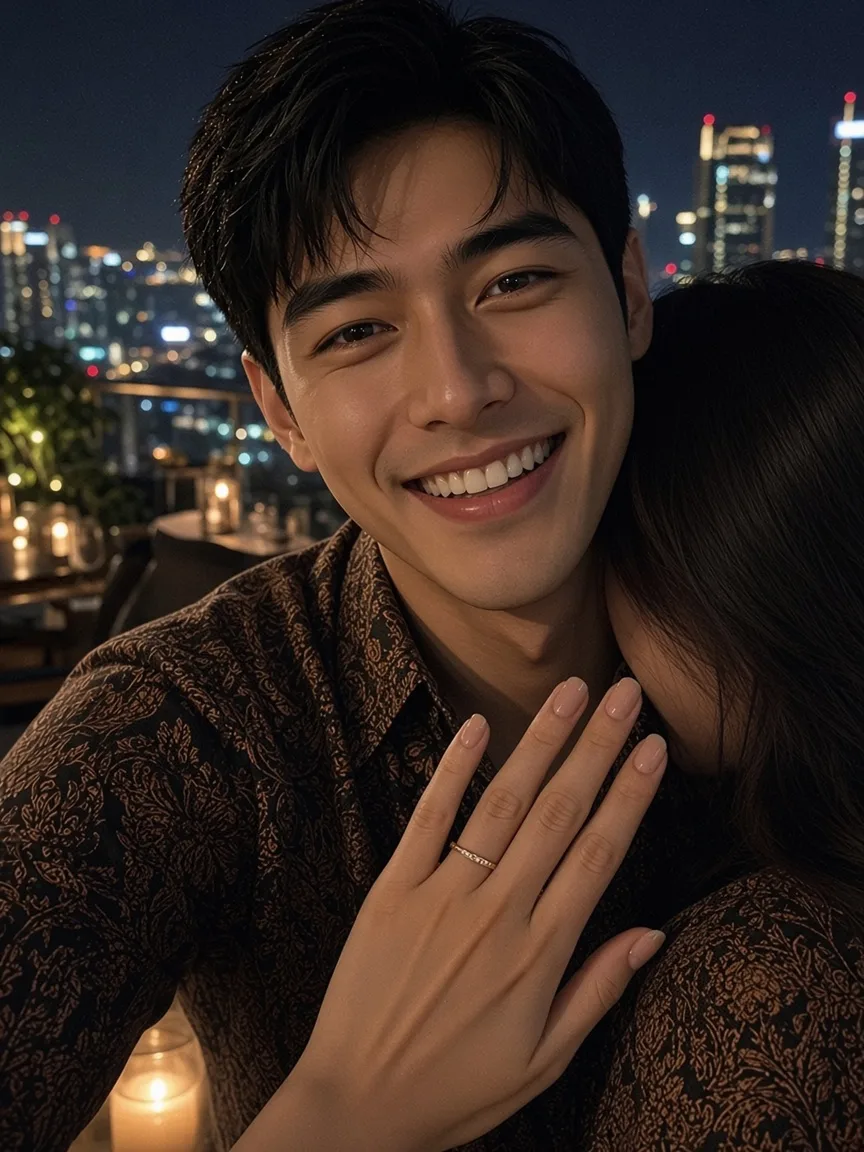
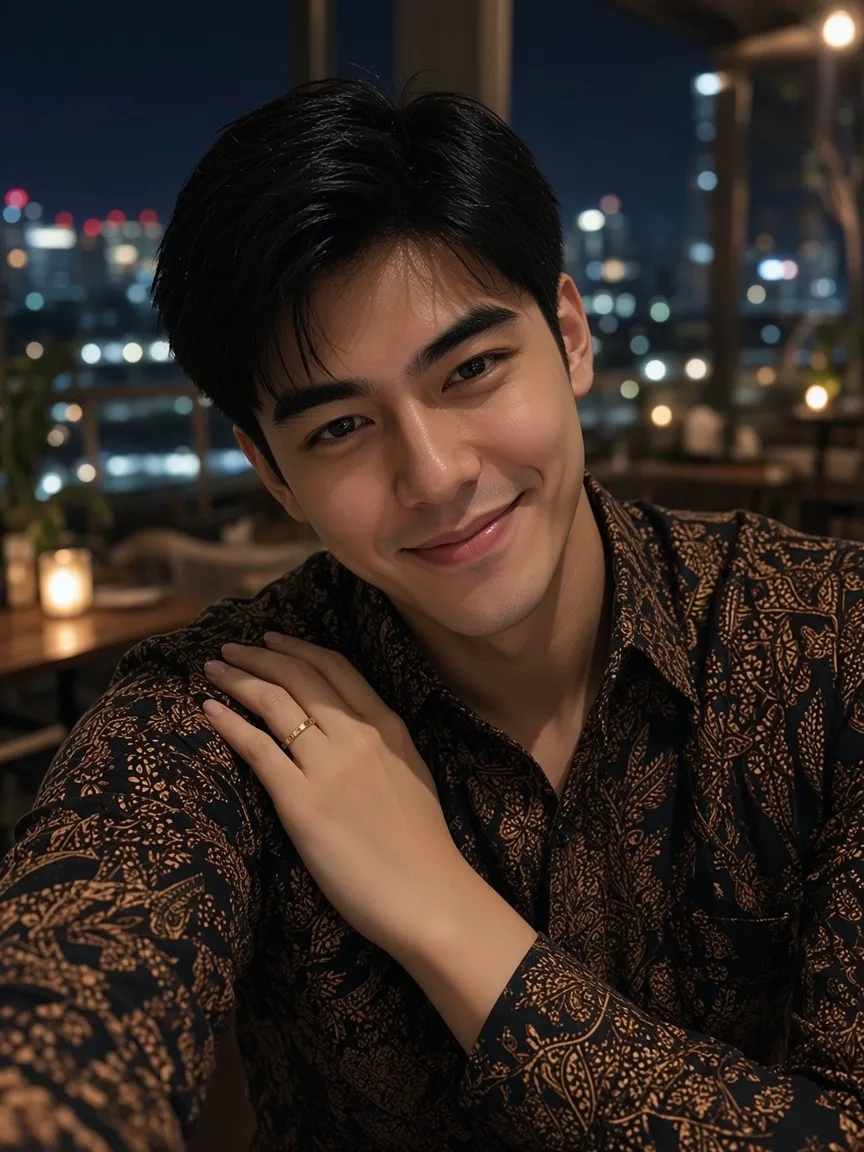
affair v6: passcode (tap→121019, 19…, ticket from wallet above keypad) + Galeri (12 Okt empty evening → Baru dihapus: rooftop wine, selfie w/ ring hand, reservation)

diff --git a/affair/phone.js b/affair/phone.js
@@ -2,7 +2,7 @@
 // then plays them: auto-advance at reading pace, taps only for meaningful actions.
 (function(){
 'use strict';
-const P=window.PHONE,{BEATS,APPS,LIST,UI,TH,SAY,TICKET,ANSWER,DECOR,CLOG_OLD}=P;
+const P=window.PHONE,{GDAYS,GALBUMS,GOTHER,GDEL,BEATS,APPS,LIST,UI,TH,SAY,TICKET,ANSWER,DECOR,CLOG_OLD}=P;
 const $=s=>document.querySelector(s);
 const qs=new URLSearchParams(location.search);
 const store=PhoneStore.create(localStorage,location.search,{onWiped:()=>location.reload()});
@@ -55,6 +55,7 @@ function build(){
     case 'call':base({k:'call',name:b.name,num:b.num,sub:b.sub,who:b.who});push(b,{txt:b.name});break;
     case 'clog':base({k:'clog',row:b.row,swipe:b.swipe,gone:b.gone,at:st.last&&st.last.callAt});push(b,{txt:b.gone?UI.deleted:(b.row&&b.row.t)});break;
     case 'contact':base({k:'contact',num:b.num,name:b.name,res:b.res});push(b,{txt:b.res?UI.cDup:''});break;
+    case 'gal2':base({k:'gal2',m:b.m,at:b.at,i:b.i});push(b,{txt:b.m==='photo'?'x'.repeat(50):''});break;
     case 'home':base({k:'hub'});push(b);break;
     case 'snap':st.ov=st.ov.filter(o=>o.k!=='pop'&&o.k!=='inner');st.ov.push({k:'snap',t:b.t});push(b,{txt:b.t});break;
     case 'myshot':{const src=F.find(f=>f.b.id===b.ref);if(src){base({k:'myshot',src:{...clone(src.v),hl:1},at:src.clock,shower:src.shower,left:src.left})}push(b,{txt:'x'.repeat(30)});break}
@@ -98,7 +99,7 @@ function build(){
 const scr=$('#screen'),phone=$('#phone');
 let F=build(),pos=Math.min(store.get('pos',0),F.length-1),shownAt=0,timer=null,paused=false,speed=store.get('speed',1),revealed=false;
 window.__LOG=[];
-const HIS=['lock','hub','list','thread','gallery','ride','bank','call','clog'];
+const HIS=['lock','hub','list','thread','gallery','gal2','ride','bank','call','clog'];
 const sbHTML=(f,light,clock)=>`<div class="sb${light?' light':''}"><b class="sbt">${esc(String(clock||f.clock).replace('.',':'))}</b><span class="isl">${HIS.includes(f.v.k)&&!f.noLabel?`<em class="hisl">📱 ${T(UI.hisPhone)}</em>`:''}</span><span class="sig">▂▄▆█</span><small>4G</small><span class="bat"><i style="width:${f.shower?54:62}%"></i></span></div>`;
 function chipHTML(f){
  if(!f.shower)return'';const sec=f.left*60;const stop=f.shower===2||(f.v.k==='dark'&&f.v.stop);
@@ -118,11 +119,11 @@ function viewHTML(f){
     if(c.say){const s=SAY[c.say];return `<div class="say${s.me?' me':''} cap${nw}">${av(c.say)}<div><small>${T(s.name)}</small><p>${T(c.t)}</p></div></div>`}
     if(c.bn)return `<div class="nb cap${nw}"><div class="nbh"><span>💬 ${T(c.from)}</span><span>${esc(c.time)}</span></div><p>${T(c.t)}</p></div>`;
     if(c.glimpse)return `<div class="glimpse cap${nw}"><small>${T(UI.hisPhone)}</small><span class="gb">${T(c.t)}</span></div>`;
-    if(c.ticket)return `<div class="cap${nw} tkwrap">${ticketHTML('washed')}<p>${T(c.t)}</p></div>`;
+    if(c.ticket)return `<div class="cap${nw} tkwrap">${ticketHTML('')}<p>${T(c.t)}</p></div>`;
     return `<p class="cap line${fresh?' l':''}${nw}"${st}>${T(c.t)}</p>`}).join('');
    return `<div class="app scene${v.tint==='fb'?' fbt':''}${all.length>=4?' many':''}">${v.img?`<div class="simg"><img src="assets/${v.img}" alt=""><span class="stag">${T(v.tag)}</span>${v.tint==='fb'?`<span class="fbchip">${T(UI.fbL)}</span>`:''}</div>`:''}<div class="scaps">${caps}</div></div>`}
   case 'lock':{
-   if(v.pin)return `<div class="app lock pinning"><img class="wallimg" src="assets/p-wall.webp" alt="">${sbHTML(f,1)}<div class="pinbox"><div class="pinl">🔒 ${T(UI.pinEnter)}</div><div class="dots6" id="dots">${'<i></i>'.repeat(6)}</div><div class="pinmsg" id="pinmsg"></div><div class="pad" id="pad">${[1,2,3,4,5,6,7,8,9,'',0,'⌫'].map(k=>k===''?'<span></span>':`<button class="key" data-k="${k}">${k}</button>`).join('')}</div><div class="pinhelp" id="pinhelp"></div></div></div>`;
+   if(v.pin)return `<div class="app lock pinning"><img class="wallimg" src="assets/p-wall.webp" alt="">${sbHTML(f,1)}<div class="pinbox">${f.b.ticketTop?`<div class="pintk"><p class="pincap">${T(f.b.cap)}</p><div class="tkmini" id="tkmini">${ticketHTML('mini')}<small id="tkhint"></small></div></div>`:''}<div class="pinl">🔒 ${T(UI.pinEnter)}</div><div class="dots6" id="dots">${'<i></i>'.repeat(6)}</div><div class="pinmsg" id="pinmsg"></div><div class="pad" id="pad">${[1,2,3,4,5,6,7,8,9,'',0,'⌫'].map(k=>k===''?'<span></span>':`<button class="key" data-k="${k}">${k}</button>`).join('')}</div><div class="pinhelp" id="pinhelp"></div></div></div>`;
    return `<div class="app lock"><img class="wallimg" src="assets/p-wall.webp" alt="">${sbHTML(f,1)}<div class="lk-t">${esc(f.clock.replace('.',':'))}</div><div class="lk-d">${T(UI.lockDate)}</div><div class="lk-n">${v.notifs.map((n,i)=>`<div class="ln${i===0&&f.b.k==='lock'?' new':''}"><span class="la">💬 ${esc(n.app)} · ${T(n.title)}</span><p>${T(n.t)}</p><span class="lt">${T(UI.now)}</span></div>`).join('')}</div></div>`}
   case 'list':{
    const rows=LIST.map(r=>{const un=r.un&&!(r.unWhen&&!cond(r.unWhen,{flags:f.flags,got:f.got}));
@@ -149,6 +150,23 @@ function viewHTML(f){
      return `<button class="hubic ${done?'done':can?'can':'cant'}" data-app="${a.id}"${can&&f.b.wait!==undefined?'':''}><span class="ai" style="background:${a.col}">${a.ic}</span><small>${T(a.name)}</small><em class="cost">${done?'✓':(can?'':'✕ ')+a.cost+' '+T(UI.min)}</em></button>`}).join('');
    const dc=DECOR.map(d=>`<span class="hubic decor"><span class="ai">${d.ic}</span><small>${T(d.name)}</small></span>`).join('');
    return `<div class="app hub"><img class="wallimg" src="assets/p-wall.webp" alt="">${sbHTML(f,1)}<div class="hubgrid">${ic}${dc}</div></div>`}
+  case 'gal2':{
+   const tile=(p,extra)=>`<span class="gtile"${extra||''}><img src="assets/${p[0]}.webp" alt="" style="object-position:${p[1]};transform:scale(${p[2]})"><i>${esc(p[3])}</i></span>`;
+   const shotUI=(g,mini)=>{const a=L(g.shot).split(' · ');return `<div class="rsv${mini?' mini':''}"><small>${T(UI.gRsv)}</small><b>${esc(a[0])}</b><p>${esc(a[1])}</p><p>${esc(a[2])}</p><em>✓ ${esc(a[3])}</em></div>`};
+   const tabs=`<div class="gtabs"><span class="${v.m==='grid'?'on':''}">${T(UI.gRecent)}</span><span class="${v.m==='grid'?'':'on'}" data-tgt="album">${T(UI.gAlbums)}</span></div>`;
+   if(v.m==='grid'){
+    const secs=GDAYS.map(d=>`<div class="gsec${v.at===d.id?' hl':''}" data-day="${d.id}"><div class="gday">${T(d.d)}</div><div class="ggrid">${d.ph.map(p=>tile(p)).join('')}</div></div>`).join('');
+    const scrub=`<div class="gscrub">${GDAYS.map(d=>`<span data-tgt="${d.id}">${esc(L(d.d).replace(/^.*?(\d+ Okt|\d+月\d+日).*$/,'$1'))}</span>`).join('')}</div>`;
+    return `<div class="app gal2">${sbHTML(f,0)}<div class="gh2"><b>${T(UI.gRecent)}</b></div><div class="gscroll" id="gscroll">${secs}<div class="lpad"></div></div>${scrub}${tabs}</div>`}
+   if(v.m==='albums'){
+    const al=GALBUMS.map(a=>`<div class="galb"><img src="assets/${a[1]}.webp" alt=""><b>${T(a[0])}</b><small>${esc(a[2])}</small></div>`).join('');
+    const ot=GOTHER.map(o=>`<div class="gorow"><span>${o[0]}</span><b>${T(o[1])}</b><small>${esc(o[2])} ›</small></div>`).join('')+`<div class="gorow" data-tgt="del"><span>🗑</span><b>${T(UI.gDel)}</b><small>3 ›</small></div>`;
+    return `<div class="app gal2">${sbHTML(f,0)}<div class="gh2"><b>${T(UI.gAlbums)}</b></div><div class="gscroll" id="gscroll"><div class="galbs">${al}</div><div class="gday">${T(UI.gOther)}</div>${ot}<div class="lpad"></div></div>${tabs}</div>`}
+   if(v.m==='del'){
+    const ts=GDEL.map((g,i)=>`<span class="gtile del" data-tgt="p${i}">${g.img?`<img src="assets/${g.img}" alt="">`:shotUI(g,1)}<i>${T(UI.gDays)}</i></span>`).join('');
+    return `<div class="app gal2">${sbHTML(f,0)}<div class="gh2"><span class="bk">‹</span><b>${T(UI.gDel)}</b></div><div class="gnote">${T(UI.gDaysL)}</div><div class="ggrid big">${ts}</div>${tabs}</div>`}
+   const g=GDEL[v.i];
+   return `<div class="app gal2">${sbHTML(f,0)}<div class="gh2"><span class="bk">‹</span><b>${T(UI.gDel)}</b><small>${v.i+1}/3</small></div><div class="gph" data-tgt="ph">${g.img?`<img src="assets/${g.img}" alt="">`:shotUI(g)}</div><div class="gcap">ⓘ ${T(g.cap)}</div><div class="gdl">🗑 ${T(UI.gDaysL)}</div><div class="gbtns"><span>${T(UI.gRestore)}</span><span class="r">${T(UI.gDelete)}</span></div></div>`}
   case 'myshot':{
    const inner=viewHTML({v:v.src,clock:v.at,left:v.left,shower:0,b:{k:'x'},ov:[],got:[],flags:{},noLabel:1});
    return `<div class="app mygal">${sbHTML(f)}<div class="gh"><span class="bk">‹</span><b>${T(UI.myGal)}</b></div><div class="shotph"><div class="shotin">${inner}</div><i class="glare"></i></div><div class="gcap">📷 ${esc(String(v.at).replace('.',':'))}</div></div>`}
@@ -204,7 +222,9 @@ function wire(f,anim){
  if(b.k==='act'&&b.mode==='pin'&&!f.done)armPin(b);
  if(f.drainFrom!=null&&anim)drain(f);
  if(v.k==='epend'){$('#again').onclick=e=>{e.stopPropagation();resetAll()}}
- const g=scr.querySelector('.gfocus');if(g)g.onclick=e=>{e.stopPropagation();const z=$('#zoom');z.innerHTML=`<img src="${g.querySelector('img').src}" alt="">`;z.hidden=false;z.onclick=()=>{z.hidden=true}};
+ if(v.k==='gal2'){const gs=$('#gscroll');if(gs){let to=0;if(v.at){const d=gs.querySelector(`[data-day=${v.at}]`);to=d.offsetTop-gs.offsetTop-8}else if(v.m==='albums')to=gs.scrollHeight;
+   if(anim&&f.b.k==='gal2'&&to)smoothScroll(gs,Math.min(to,gs.scrollHeight-gs.clientHeight),1100);else gs.scrollTop=to}}
+ if(v.k!=='list'&&b.k==='act'&&b.mode==='target'&&!f.done){const el=scr.querySelector(`[data-tgt="${b.tgt}"]`);if(el){el.classList.add('tgt');el.onclick=e=>{e.stopPropagation();resolve(b.key,true)}}}
 }
 function smoothScroll(el,to,ms){const from=el.scrollTop,t0=performance.now();(function st(){const k=Math.min(1,(performance.now()-t0)/ms);el.scrollTop=from+(to-from)*(1-Math.pow(1-k,3));if(k<1)requestAnimationFrame(st)})()}
 function drain(f){const el=$('#cdt'),sb=scr.querySelector('.sbt');const s0=f.drainFrom*60,ms=3600/speed,t0=performance.now();
@@ -213,19 +233,17 @@ function drain(f){const el=$('#cdt'),sb=scr.querySelector('.sbt');const s0=f.dra
 function armPin(b){
  let code='';const dots=$('#dots'),msg=$('#pinmsg'),help=$('#pinhelp');let wrong=0;
  const paint=()=>dots.querySelectorAll('i').forEach((d,i)=>d.classList.toggle('on',i<code.length));
- const showChip=()=>{if(b.chip&&!help.innerHTML)help.innerHTML=`<button class="pchip" id="pchip">${T(b.chip.label)}</button>`;const c=$('#pchip');if(c)c.onclick=e=>{e.stopPropagation();autofill(b.chip.code)}};
- const showTicket=()=>{if(b.ticket&&!help.innerHTML){help.innerHTML=`<div class="tkmini" id="tkmini">${ticketHTML('washed mini')}<small>${T(UI.ticketTap)}</small></div>`;$('#tkmini').onclick=e=>{e.stopPropagation();help.innerHTML=`<div class="tkbig">${ticketHTML('washed big')}</div>`}}};
- const autofill=c=>{if(busy)return;let i=0;code='';paint();const iv=setInterval(()=>{code+=c[i++];paint();if(i>=c.length){clearInterval(iv);setTimeout(check,250)}},170)};
+ const showTicket=()=>{const tk=$('#tkmini');if(!b.ticketTop||!tk||tk.classList.contains('tgt'))return;$('#tkhint').textContent=L(UI.ticketTap);tk.classList.add('tgt');tk.onclick=e=>{e.stopPropagation();if(!busy&&!code)autofill(ANSWER)}};
+ const autofill=c=>{if(busy)return;busy=true;let i=0;code='';paint();const iv=setInterval(()=>{code+=c[i++];paint();if(i>=c.length){clearInterval(iv);setTimeout(check,250)}},170)};
  let busy=false;
  function check(){busy=true;
   const ok=b.final?code===ANSWER:false;
   if(ok){dots.classList.add('ok');setTimeout(()=>{busy=false;resolve(b.key,true)},420);return}
-  wrong++;dots.classList.remove('bad');void dots.offsetWidth;dots.classList.add('bad');msg.textContent=L(UI.pinWrong);
-  setTimeout(()=>{code='';paint();busy=false;dots.classList.remove('bad');if(!b.final)resolve(b.key,true);else if(wrong>=1)showTicket()},700)}
+  wrong++;phone.classList.remove('shake');void phone.offsetWidth;phone.classList.add('shake');dots.classList.remove('bad');void dots.offsetWidth;dots.classList.add('bad');msg.textContent=L(UI.pinWrong);
+  setTimeout(()=>{code='';paint();busy=false;dots.classList.remove('bad');if(!b.final)resolve(b.key,true);else if(wrong>=1)showTicket()},b.final?700:1100)}
  $('#pad').onclick=e=>{const k=e.target.closest('.key');if(!k||busy)return;e.stopPropagation();const d=k.dataset.k;
-  if(d==='⌫'){code=code.slice(0,-1);paint();return}if(code.length<6){code+=d;paint();msg.textContent='';if(code.length===6)setTimeout(check,200)}};
+  if(b.fill){if(!code)autofill(b.fill);return}if(d==='⌫'){code=code.slice(0,-1);paint();return}if(code.length<6){code+=d;paint();msg.textContent='';if(code.length===6)setTimeout(check,200)}};
  const tid=F[pos];
- if(b.chipAfter)setTimeout(()=>{if(F[pos]===tid)showChip()},b.chipAfter);
  if(b.ticketAfter)setTimeout(()=>{if(F[pos]===tid)showTicket()},b.ticketAfter/speed);
 }
 // ---------------- flow ----------------
@@ -251,7 +269,7 @@ function resolve(key,val){const f=F[pos];if(!f||f.wait!==key||f.done)return;
  if(performance.now()-shownAt<MINVIS)return;
  decide(key,val);F=build();pos=Math.min(pos+1,F.length-1);render(true)}
 // how long the entrance animations of a frame run: a tap before that only reveals, never advances
-function animEnd(f){const k=f.b.k;if(k==='scene')return 700*(f.b.lines.length-1)+700;if(k==='ride')return 1250;if(k==='bank')return 1400;if(f.v.k==='dark'&&f.v.title)return 2100;if(k==='dark')return 1400;if(k==='list'&&f.v.hold)return 1500;if(k==='list'&&f.v.title)return 1000;if(k==='gallery'&&f.v.zoomed)return 950;if(k==='snap')return 900;return 450}
+function animEnd(f){const k=f.b.k;if(k==='scene')return 700*(f.b.lines.length-1)+700;if(k==='ride')return 1250;if(k==='bank')return 1400;if(f.v.k==='dark'&&f.v.title)return 2100;if(k==='dark')return 1400;if(k==='list'&&f.v.hold)return 1500;if(k==='list'&&f.v.title)return 1000;if(k==='gallery'&&f.v.zoomed)return 950;if(k==='snap')return 900;if(k==='gal2'&&f.v.at)return 1200;if(k==='gal2'&&f.v.m==='albums')return 1200;return 450}
 let revealAt=0;
 scr.addEventListener('click',()=>{
  const f=F[pos];if(f.wait&&!f.done)return;

diff --git a/affair/script.js b/affair/script.js
@@ -32,6 +32,21 @@ const LIST=[
 ];
 const VN_TR='“Kamis ya, lantai 17, jangan telat. Istrimu nggak curiga kan? Dia kan cuma ngurus rumah… oke sip.”|“星期四哦，十七楼，别迟到。你老婆没起疑吧？她不就是管管家嘛……oke sip。”';
 const ROUTE='Konveksi Cempaka → Griya Sentosa Tower B|Cempaka服装厂 → Griya Sentosa B座';
+// Galeri: normal photos (img, crop, time) per day; 12 Okt has only one morning invoice
+const GDAYS=[
+ {id:'d21',d:'Hari ini · Rabu, 21 Okt|今天 · 10月21日 周三',ph:[['p-g-work','50% 50%',1,'10.12'],['p-g-invoice','50% 40%',1.3,'09.47']]},
+ {id:'d20',d:'Selasa, 20 Okt|10月20日 周二',ph:[['p-g-nayla','50% 40%',1,'18.55'],['p-g-work','10% 30%',1.6,'14.20'],['p-g-work','90% 80%',1.7,'14.19']]},
+ {id:'d18',d:'Minggu, 18 Okt|10月18日 周日',ph:[['p-g-nayla','40% 60%',1.5,'16.02'],['p-g-nayla','60% 20%',1.2,'16.01']]},
+ {id:'d15',d:'Kamis, 15 Okt|10月15日 周四',ph:[['p-g-invoice','30% 60%',1.6,'11.30'],['p-g-work','20% 60%',1.4,'10.05'],['p-g-invoice','70% 20%',1.5,'09.58']]},
+ {id:'d13',d:'Selasa, 13 Okt|10月13日 周二',ph:[['p-g-work','80% 30%',1.5,'15.40'],['p-g-nayla','50% 70%',1.6,'07.10']]},
+ {id:'d12',d:'Senin, 12 Okt|10月12日 周一',ph:[['p-g-invoice','50% 50%',1.1,'08.14']]},
+ {id:'d11',d:'Minggu, 11 Okt|10月11日 周日',ph:[['p-g-nayla','30% 30%',1.3,'17.22'],['p-g-work','60% 40%',1.2,'13.03'],['p-g-nayla','70% 80%',1.8,'08.45']]}];
+const GALBUMS=[['Terbaru|最近项目','p-g-work','1.284'],['Favorit|个人收藏','p-g-nayla','36'],['Nayla|Nayla','p-g-nayla','412'],['Kain · Kerja|布料 · 工作','p-g-invoice','318']];
+const GOTHER=[['🎞','Video|视频','27'],['📱','Tangkapan layar|截屏','154'],['🔒','Tersembunyi|已隐藏','0']];
+const GDEL=[
+ {img:'p-rooftop.webp',cap:'12 Okt 2026 · 21.03 · Rumah Langit, Griya Sentosa|2026年10月12日 · 21:03 · Rumah Langit，Griya Sentosa'},
+ {img:'p-album.webp',cap:'12 Okt 2026 · 21.26 · Rumah Langit, Griya Sentosa|2026年10月12日 · 21:26 · Rumah Langit，Griya Sentosa'},
+ {shot:'Rumah Langit · 2 orang · 12 Okt 20.30 · Terkonfirmasi|Rumah Langit · 2位 · 10月12日 20:30 · 已确认',cap:'12 Okt 2026 · 17.52 · Tangkapan layar|2026年10月12日 · 17:52 · 截屏'}];
 const GCAP='12 Okt 2026 · 21.03 · Rumah Langit, Griya Sentosa|2026年10月12日 · 21:03 · Rumah Langit，Griya Sentosa';
 // the four apps on his home screen: each costs 4 minutes; only three fit
 const APPS=[
@@ -47,13 +62,23 @@ const APPS=[
    {k:'act',key:'trans',mode:'tap',in:'chat',btn:'📝 Ubah suara ke teks|📝 语音转文字'},
    {k:'replay',th:'budi',tr:VN_TR}]},
  {id:'gal',name:'Galeri|相册',ic:'🖼',col:'#d98a1c',cost:4,re:[
-   {k:'gallery',id:'k1',t:'Album tersembunyi “K” · 1 foto|隐藏相册“K” · 1张',focus:'p-album.webp',cap:GCAP},
-   {k:'scene',tint:'fb',tag:'Senin, 12 Okt · 18.40|10月12日 周一 · 18:40',img:'p-dressed.webp',lines:['Ulang tahun pernikahan ketujuh.|结婚七周年。','Aku sudah dandan.|我已经化好了妆。']},
+   {k:'gal2',m:'grid'},
+   {k:'act',key:'g12',mode:'target',tgt:'d12'},
+   {k:'gal2',m:'grid',at:'d12'},
+   {k:'inner',t:'Malam itu katanya lembur. Nggak ada satu pun foto?|那天他说在加班，连一张发货单都没拍？'},
+   {k:'act',key:'galb',mode:'target',tgt:'album'},
+   {k:'gal2',m:'albums'},
+   {k:'act',key:'gdel',mode:'target',tgt:'del'},
+   {k:'gal2',m:'del'},
+   {k:'act',key:'gp1',mode:'target',tgt:'p0'},
+   {k:'gal2',m:'photo',i:0},
+   {k:'act',key:'gp2',mode:'target',tgt:'ph'},
+   {k:'gal2',m:'photo',i:1},
+   {k:'act',key:'gp3',mode:'target',tgt:'ph'},
+   {k:'gal2',m:'photo',i:2},
+   {k:'scene',tint:'fb',tag:'Senin, 12 Okt · 18.40|10月12日 周一 · 18:40',img:'p-dressed.webp',lines:['Aku sudah dandan.|我已经化好了妆。']},
    {k:'scap',bn:1,from:'Mas Dimas ❤|Mas Dimas ❤',time:'18.40',t:'Sayang, maaf, malam ini lembur. Anniversary-nya kita rayain weekend ya|宝贝，对不起，今晚加班。纪念日我们周末再过哈'},
-   {k:'gallery',t:'Album tersembunyi “K” · 1 foto|隐藏相册“K” · 1张',focus:'p-album.webp',cap:GCAP},
-   {k:'act',key:'zoom',mode:'tap',in:'gallery',btn:'Perbesar tangannya|放大那只手'},
-   {k:'gallery',id:'k2',zoomed:1,t:'Album tersembunyi “K” · diperbesar|隐藏相册“K” · 放大',focus:'p-album-hand.webp',cap:'12 Okt 2026 · 21.03|2026年10月12日 · 21:03'},
-   {k:'inner',t:'Cincinnya… mirip punyaku.|这戒指……跟我的好像。'}]},
+   {k:'inner',t:'Hari itu ulang tahun pernikahan kami.|那天，是我们的结婚纪念日。'}]},
  {id:'ride',name:'Jalanku|Jalanku',ic:'🛵',col:'#0b8f62',cost:4,re:[
    {k:'ride',t:'Riwayat perjalanan|行程记录',img:'p-apt.webp',cap:'Griya Sentosa Tower B|Griya Sentosa B座',rows:[
      ['Kamis, 15 Okt · 19.30|10月15日 周四 · 19:30',ROUTE,'Rp38.000'],
@@ -83,12 +108,13 @@ const BEATS=[
  {k:'inner',t:'…Supplier nanya aku udah tidur?|……供应商，问我睡了没？'},
  {k:'act',key:'grab',mode:'tap',in:'lock',notifs:[B2,B1],btn:'Ambil HP-nya|拿起他的手机'},
  // ---------- passcode ----------
- {k:'act',key:'pin1',mode:'pin',in:'lock',fail:1,chip:{label:'12 10 19 · tanggal nikah kami|12 10 19 · 我们的结婚纪念日',code:'121019'},chipAfter:1200},
- {k:'inner',fx:'shake',t:'Dulu ini kodenya.|以前就是这个。'},
+ {k:'act',key:'pin1',mode:'pin',in:'lock',fail:1,fill:'121019'},
+ {k:'inner',t:'Dulu ini kodenya.|以前就是这个。'},
  {k:'scene',tint:'fb',tag:'21.20 · Meja makan · tadi|21:20 · 餐桌 · 今晚早些时候',img:'p-dinner.webp',lines:['Dia membuka HP-nya, layarnya dimiringkan dariku.|他解锁手机时，把屏幕斜着避开我。','Yang sempat kulihat: 1, lalu 9.|我只看见：1，然后是9。']},
- {k:'scene',tint:'fb',tag:'Juni 2025 · Ruang cuci|2025年6月 · 洗衣间',img:'p-laundry.webp',lines:['Kantong kemejanya.|他衬衫的口袋里。','Kertas lecek, ikut tercuci.|一团皱纸，跟着洗过了。']},
- {k:'scap',ticket:1,t:'Kamis. 19.06.25.|星期四。19.06.25。'},
- {k:'act',key:'pin2',mode:'pin',in:'lock',final:1,ticket:1,ticketAfter:9000},
+ {k:'inner',t:'19…|19……'},
+ {k:'scene',tint:'fb',tag:'Juni 2025 · Ruang cuci|2025年6月 · 洗衣间',img:'p-laundry.webp',lines:['Malam itu katanya dia lembur.|那天晚上，他说在加班。']},
+ {k:'scap',ticket:1,t:'Aku nggak nanya. Tiketnya kuselipkan di dompetku.|我没问。把票夹进了自己的钱包。'},
+ {k:'act',key:'pin2',mode:'pin',in:'lock',final:1,ticketTop:1,cap:'Kuambil dari dompetku.|我从钱包里抽出那张票。',ticketAfter:9000},
  // ---------- unlocked: his home screen ----------
  {k:'home',shower:1},
  {k:'inner',t:'Dia mandi lima belas menit. Satu-satu, paling sempat tiga.|他洗澡十五分钟。一个一个翻，最多来得及看三个。'},
@@ -141,10 +167,10 @@ const BEATS=[
  {k:'dark',cut:1,t:'',sub:''},
  {k:'epend',ep:1,tease:'Episode 2: Kamis malam, lantai 17.|第2集：星期四晚上，十七楼。'}
 ];
-const IMAGES=['p-bed.webp','p-dinner.webp','p-laundry.webp','p-album.webp','p-album-hand.webp','p-dressed.webp','p-apt.webp','p-door.webp','p-ask.webp','p-bed2.webp','p-wall.webp','p-hisphone.webp','av-L.webp','av-D.webp'];
+const IMAGES=['p-bed.webp','p-dinner.webp','p-laundry.webp','p-album.webp','p-rooftop.webp','p-g-work.webp','p-g-invoice.webp','p-g-nayla.webp','p-dressed.webp','p-apt.webp','p-door.webp','p-ask.webp','p-bed2.webp','p-wall.webp','p-hisphone.webp','av-L.webp','av-D.webp'];
 const UI={
  paused:'Dijeda|已暂停',menu:'Menu|菜单',reset:'Mulai ulang dari awal|从头开始',resetQ:'Mulai ulang? Progres & pilihan dihapus.|重新开始？进度和选择都会被删除。',yes:'Ya, mulai ulang|确定重置',no:'Batal|取消',
- innerL:'suara hatiku|我的心声',tr:'Transkrip|转写',vn:'Pesan suara|语音消息',zoomHint:'ketuk untuk perbesar|点开看大图',gallery:'Galeri|相册',me:'Aku|我',
+ innerL:'suara hatiku|我的心声',tr:'Transkrip|转写',vn:'Pesan suara|语音消息',zoomHint:'ketuk untuk perbesar|点开看大图',gallery:'Galeri|相册',gRecent:'Terbaru|最近项目',gRsv:'Reservasi|预订',gAlbums:'Album|相簿',gOther:'Lainnya|其他',gDel:'Baru dihapus|最近删除',gDays:'29 hari|29天',gDaysL:'29 hari lagi dihapus permanen|29天后永久删除',gRestore:'Pulihkan|恢复',gDelete:'Hapus|删除',me:'Aku|我',
  end1:'Bersambung|未完待续',again:'Ulangi dari awal|从头再看',
  tkDay:'HARI|星期',tkDate:'TANGGAL|日期',tkTime:'JAM|时间',tkSeat:'KURSI|座位',
  pinWrong:'Kode salah|密码错误',pinEnter:'Masukkan kode sandi|输入密码',ticketTap:'ketuk tiketnya|点一下票根',
@@ -157,5 +183,5 @@ const UI={
  cNew:'Kontak baru · HP-ku|新建联系人 · 我的手机',cNum:'Nomor|号码',cName:'Nama|名字',cDup:'Nomor ini sudah tersimpan sebagai:|这个号码已保存为：',
  fbL:'kilas balik|闪回'
 };
-const api={TITLE,TH,SAY,BEATS,UI,TICKET,ANSWER,IMAGES,LIST,APPS,DECOR,CLOG_OLD,NUM};if(typeof module!=='undefined')module.exports=api;else root.PHONE=api;
+const api={GDAYS,GALBUMS,GOTHER,GDEL,TITLE,TH,SAY,BEATS,UI,TICKET,ANSWER,IMAGES,LIST,APPS,DECOR,CLOG_OLD,NUM};if(typeof module!=='undefined')module.exports=api;else root.PHONE=api;
 })(this);

diff --git a/affair/phone.css b/affair/phone.css
@@ -242,3 +242,45 @@ b.miss{color:#d0342c}
 .shotin *{animation:none!important}
 .glare{position:absolute;inset:0;pointer-events:none;background:linear-gradient(115deg,rgba(255,255,255,0) 35%,rgba(255,255,255,.13) 48%,rgba(255,255,255,0) 60%)}
 .mygal .gcap{text-align:center;margin-top:12px}
+/* v6: passcode ticket above keypad */
+.pinning .pinbox{margin-top:14px}
+.pintk{display:flex;flex-direction:column;align-items:center;margin-bottom:8px;animation:pop .5s both}
+.pincap{font-size:13.5px;font-style:italic;color:#f2e9ff;background:rgba(30,20,45,.8);border-radius:10px;padding:4px 10px;margin-bottom:4px}
+.pintk .tkmini .ticket{transform:rotate(-2deg) scale(.82);margin:-8px 0}
+.pintk .tkmini small{min-height:16px}
+.tkmini.tgt .ticket{animation:tkg 1.6s ease-in-out infinite}@keyframes tkg{50%{box-shadow:0 0 0 4px rgba(255,214,10,.85),0 4px 14px rgba(0,0,0,.35)}}
+.pinning .pad{gap:10px 22px}.pinning .key{width:68px;height:68px}
+/* v6: Galeri */
+.gal2{background:#fff;color:#111}.gal2 .sb{background:#fff}
+.gh2{flex:none;display:flex;align-items:center;gap:8px;padding:8px 14px 6px}.gh2 b{font-size:24px;font-weight:800}.gh2 .bk{font-size:28px;color:#d98a1c;line-height:1}.gh2 small{margin-left:auto;margin-right:110px;color:#888}
+.gscroll{flex:1;overflow:hidden;position:relative;padding-right:30px}
+.gday{font-size:13px;font-weight:700;color:#444;padding:12px 12px 6px}
+.gsec.hl{background:#fff7e0;border-radius:8px}.gsec.hl .gday{color:#b36b00}
+.ggrid{display:grid;grid-template-columns:repeat(3,1fr);gap:2px;padding:0 2px}
+.gtile{position:relative;aspect-ratio:1;overflow:hidden;background:#ddd;display:block}
+.gtile img{width:100%;height:100%;object-fit:cover;display:block}
+.gtile i{position:absolute;left:4px;bottom:3px;font-style:normal;font-size:10px;color:#fff;text-shadow:0 1px 3px rgba(0,0,0,.8)}
+.gscrub{position:absolute;right:2px;top:140px;z-index:6;display:flex;flex-direction:column;gap:6px;font-size:10.5px;color:#888;text-align:right}
+.gscrub span{padding:3px 6px;border-radius:8px;background:rgba(240,240,244,.9)}
+.gtabs{flex:none;display:flex;justify-content:space-around;border-top:1px solid #e3e3e8;background:#f8f8fa;padding:9px 0 12px;font-size:13px;color:#888}
+.gtabs .on{color:#d98a1c;font-weight:700}
+.gal2 .tgt{cursor:pointer;animation:gtg 1.6s ease-in-out infinite;position:relative;z-index:7}
+@keyframes gtg{50%{box-shadow:0 0 0 3px rgba(255,190,40,.95);background:#fff1a8}}
+.galbs{display:grid;grid-template-columns:1fr 1fr;gap:12px;padding:6px 12px}
+.galb img{width:100%;aspect-ratio:1;object-fit:cover;border-radius:10px;display:block}.galb b{display:block;font-size:14px;margin-top:4px}.galb small{color:#888;font-size:12px}
+.gorow{display:flex;align-items:center;gap:10px;padding:11px 14px;border-bottom:1px solid #eee}.gorow b{font-weight:500;font-size:15px}.gorow small{margin-left:auto;color:#999}
+.gnote{margin:2px 12px 10px;font-size:12.5px;color:#666;background:#f3f3f6;border-radius:10px;padding:8px 10px}
+.ggrid.big .gtile.del img{filter:saturate(.85)}
+.gtile.del i{left:auto;right:4px;background:rgba(0,0,0,.55);padding:1px 5px;border-radius:6px}
+.gph{margin:4px 12px 0;border-radius:10px;overflow:hidden;flex:0 1 auto;min-height:0;max-height:56%;background:#111;display:flex;align-items:center;justify-content:center}
+.gph img{display:block;width:100%;height:100%;object-fit:cover}
+.gph.tgt{animation:gtg2 1.6s ease-in-out infinite}@keyframes gtg2{50%{box-shadow:0 0 0 3px rgba(255,190,40,.95)}}
+.gal2 .gcap{background:#f3f3f6;color:#333}
+.gdl{margin:0 14px;font-size:13px;color:#d33}
+.gbtns{margin-top:auto;display:flex;justify-content:space-between;padding:10px 22px 14px;font-size:15px;color:#d98a1c;border-top:1px solid #eee}.gbtns .r{color:#d33}
+.rsv{background:linear-gradient(160deg,#173a2e,#0f2620);color:#e8fff4;padding:22px 18px;width:100%;height:100%;display:flex;flex-direction:column;justify-content:center;gap:6px;font-family:system-ui}
+.rsv small{font-size:11px;letter-spacing:1px;opacity:.7;text-transform:uppercase}.rsv b{font-size:24px}.rsv p{font-size:16px}.rsv em{font-style:normal;margin-top:8px;align-self:flex-start;background:#2fbf71;color:#fff;border-radius:999px;padding:4px 12px;font-weight:700}
+.rsv.mini{padding:8px;gap:2px}.rsv.mini small{font-size:7px}.rsv.mini b{font-size:11px}.rsv.mini p{font-size:8.5px}.rsv.mini em{font-size:8px;padding:1px 5px;margin-top:2px}
+.gph .rsv{min-height:320px}
+.gal2 .gtabs{margin-top:auto}
+.gscroll{padding-right:56px}

diff --git a/affair/README.md b/affair/README.md
@@ -19,3 +19,7 @@ Checks: `node /workspace/affair-tools/validate.js`; `node smoke/play4.js URL OUT
 - Call: auto beat — she photographs the call screen (flash). Ending: that photo in her gallery → new contact → S…
 - zh: Sari's "Mas" = 哥; Laras' "Mas" dropped. No husband-word (lao gong) anywhere.
 - All illustrations in one realistic photographic grade (p-bed, p-door, p-ask, p-bed2, p-wall, av-L, av-D regenerated).
+
+## v6 (2026-10-23)
+- Passcode: one tap on the keypad fills 121019 (wrong, shake) → dinner glimpse 1,9 → "19…" → laundry flashback (ticket kept in her wallet) → ticket shown above the keypad, reader types 190625 (tap on the ticket fills it after 9 s / after a wrong try).
+- Galeri: Terbaru grid → scrubber 12 Okt (only a morning invoice) → Album → Baru dihapus (3, 29 hari) → rooftop wine, selfie with her hand + ring, reservation screenshot → 18.40 flashback → anniversary line. Zoom step and hidden album removed.
